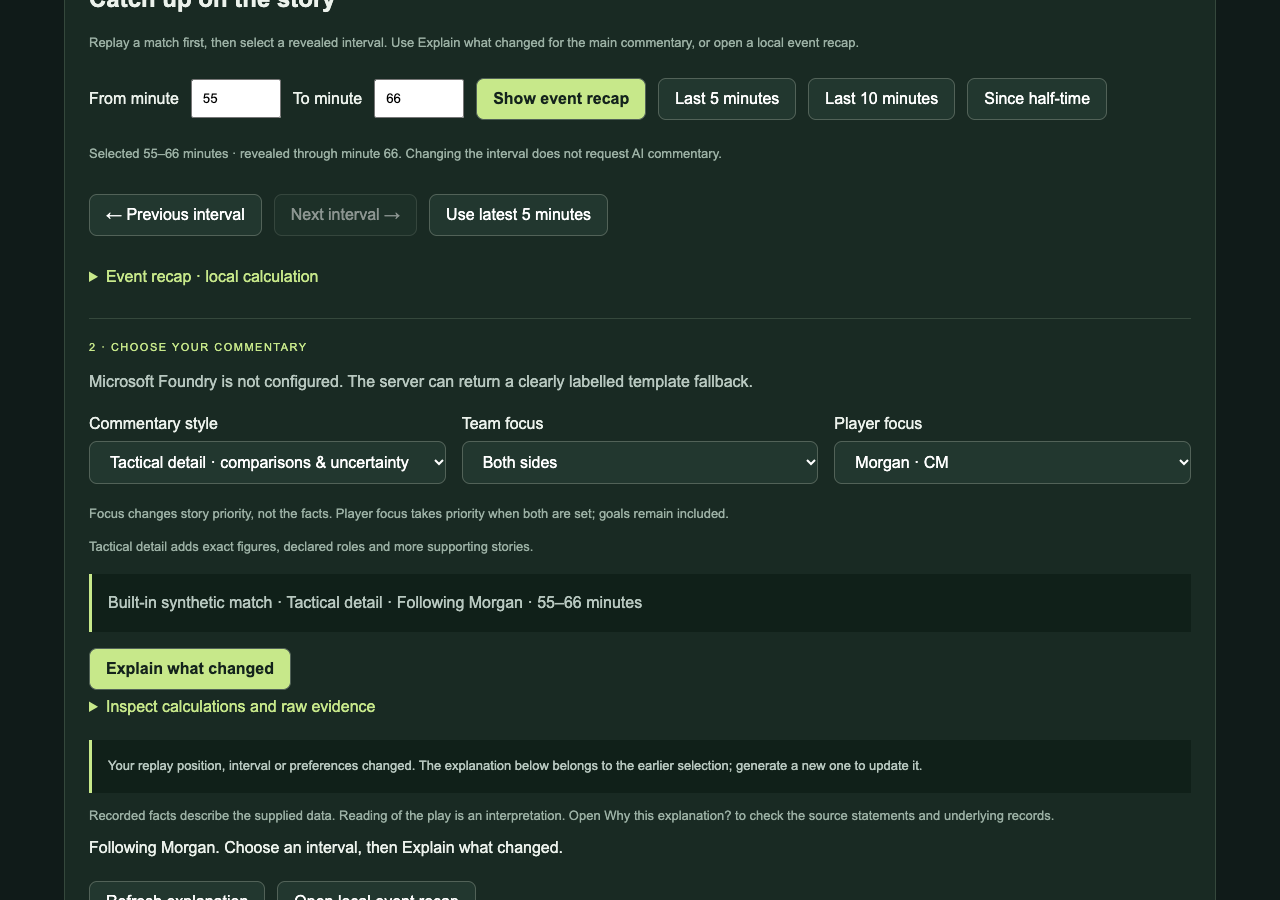
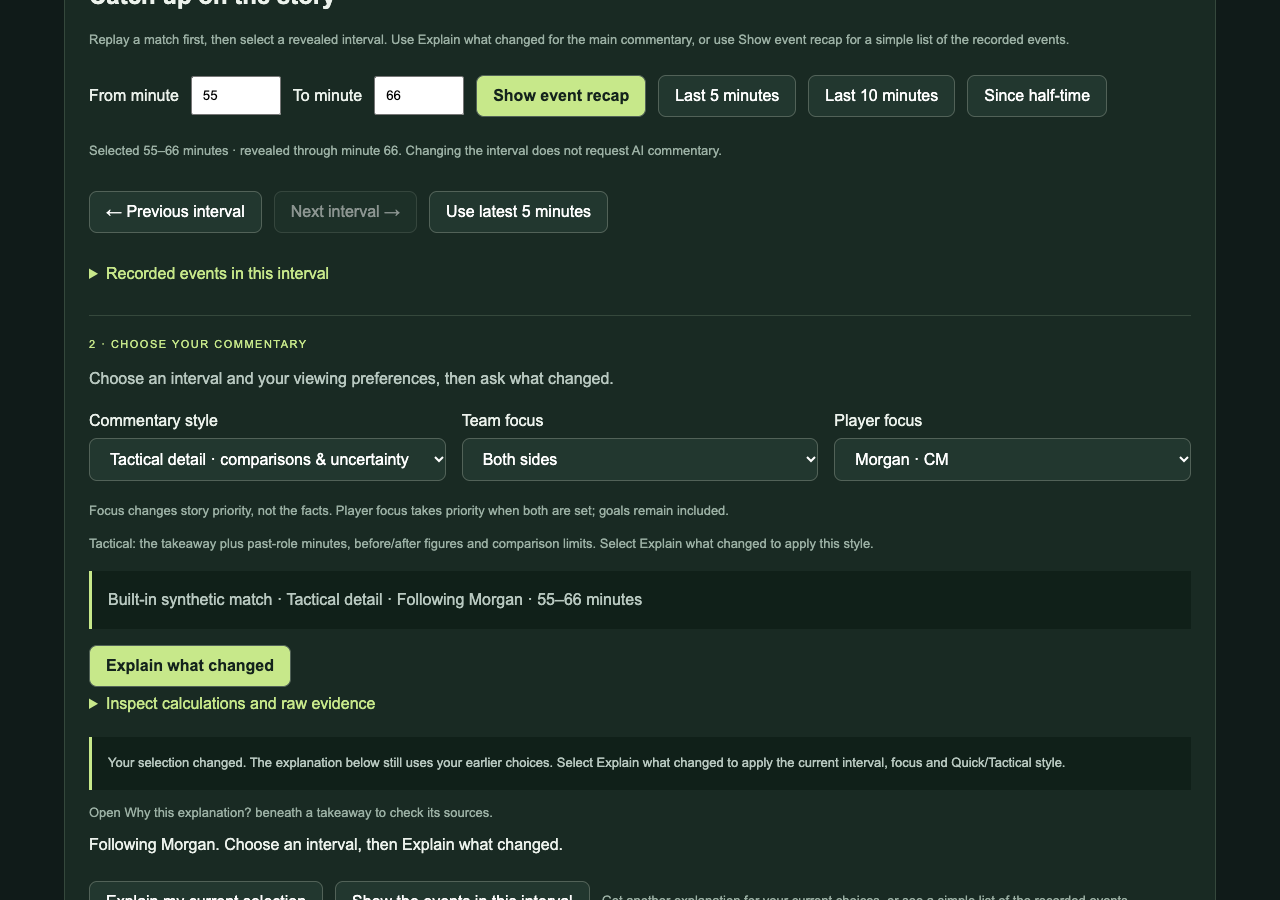
Simplify substitution takeaways and repair reported usability issues

diff --git a/app.js b/app.js
@@ -125,7 +125,7 @@ $('catchGenerate').onclick=()=>makeCatchup();
 // Server-side AI adapter; the server regenerates evidence from the seed, not browser claims.
 const aiPanel=document.createElement('section');aiPanel.className='card bottom';aiPanel.innerHTML='<div class="label">Commentary connection</div><p id="aiStatus">Checking server connection…</p><label for="analysisMode">Explanation approach</label> <select id="analysisMode"><option value="investigate">Investigate the evidence</option><option value="rank">Select supporting stories</option></select><label for="viewerMode">Commentary style</label> <select id="viewerMode"><option value="quick">Quick catch-up · plain English</option><option value="tactical">Tactical detail · comparisons &amp; uncertainty</option></select><label for="viewerFocus" style="margin-left:12px">Team focus</label> <select id="viewerFocus"><option value="neutral">Both sides</option><option value="northbridge">Northbridge</option><option value="southport">Southport</option></select><label for="playerFocus">Player focus</label> <select id="playerFocus"><option value="">No individual player</option></select><p class="muted">Focus changes story priority, not the facts. Player focus takes priority when both are set; goals remain included.</p><p id="viewerModeHelp" class="muted">A short explanation of the main changes, with minimal jargon.</p><button id="aiCatchup">Explain what changed</button><button id="showComparisons">Compare before &amp; after</button><button id="inspectPacket">Inspect evidence packet</button><div id="aiResult" aria-live="polite"></div>';catchup.after(aiPanel);
 fetch('/api/status').then(r=>{if(!r.ok)throw Error();return r.json()}).then(s=>{$('aiStatus').textContent=s.configured?'Ready. Choose your interval and preferences, then explain what changed.':'Microsoft Foundry is not configured. The server can return a clearly labelled template fallback.'}).catch(()=>{$('aiStatus').textContent='Online commentary is temporarily unavailable. Replay and the local event recap still work.'});
-async function requestCommentary(inspect){const host=$('aiResult');host.replaceChildren();if($('scenario').value!=='full'){host.textContent='This connection currently supports full synthetic matches only.';return}if($('catchFrom').value===''||$('catchTo').value===''){host.textContent='Enter both interval minutes.';return}const snapshot={...(fullReplay.package_id?{package_id:fullReplay.package_id}:{}),analysis_mode:$('analysisMode').value,viewer_mode:$('viewerMode').value,viewer_focus:$('viewerFocus').value,player_focus:$('playerFocus').value||null,seed:fullReplay.seed,index,from:Number($('catchFrom').value)*60,to:Number($('catchTo').value)*60};$('showComparisons').disabled=$('aiCatchup').disabled=$('inspectPacket').disabled=true;host.textContent=inspect?'Preparing evidence…':'Requesting commentary…';const started=performance.now();try{const response=await fetch(inspect?'/api/evidence':'/api/commentary',{method:'POST',headers:{'Content-Type':'application/json'},body:JSON.stringify(snapshot),signal:AbortSignal.timeout(30000)});if(!response.ok){const failure=await response.json();throw Error(failure.error||'Backend request unavailable.');}const data=await response.json();host.replaceChildren();const badge=document.createElement('p');badge.className='muted';badge.textContent=`${snapshot.viewer_mode==='quick'?'Quick catch-up':'Tactical detail'} · ${snapshot.viewer_focus==='neutral'?'Both sides':snapshot.viewer_focus==='northbridge'?displayTeam('northbridge'):displayTeam('southport')} focus ${snapshot.player_focus?' · Following '+snapshot.player_focus:''} · Requested interval ${snapshot.from/60}′–${snapshot.to/60}′ · ${fullReplay.package_id?'uploaded match':'seed '+snapshot.seed} · replay event ${snapshot.index} · ${((performance.now()-started)/1000).toFixed(1)}s`;host.append(badge);if(inspect){if(window.renderSequenceStory)window.renderSequenceStory(host,data);if(window.renderCalculatedComparisons)window.renderCalculatedComparisons(host,data);}if(inspect==='comparisons')return;if(inspect){const pre=document.createElement('pre');pre.style.cssText='white-space:pre-wrap;max-height:400px;overflow:auto;font-size:12px';pre.textContent=JSON.stringify(data,null,2);host.append(pre);return}const heading=document.createElement('h3');heading.textContent=data.headline;const note=document.createElement('p');note.className='muted';note.textContent=`${data.mode==='foundry'?(data.composition==='investigated-stories'?'AI evidence investigation · evidence-based wording':data.composition==='selected-stories'?'AI-selected stories · evidence-based wording':'AI-generated'):'Template fallback — not AI-generated'} · ${data.reason}${data.delivery==='cached'?' Reused an existing explanation; no new model request.':''}`;host.append(heading,note);if(window.renderInvestigatorTrace)window.renderInvestigatorTrace(host,data);if(data.failure_code){const diagnostic=document.createElement('details'),title=document.createElement('summary');title.textContent='Connection details';const text=document.createElement('p');text.textContent='Selection status: '+data.failure_code;diagnostic.append(title,text);host.append(diagnostic)}for(const p of data.paragraphs){const para=document.createElement('p');if(p.parts){if(p.parts.fact){const factLabel=document.createElement('strong');factLabel.textContent='Recorded facts · ';para.append(factLabel,document.createTextNode(p.parts.fact));}for(const [key,label]of [['reading','Reading of the play'],['alternative','Limit or alternative']])if(p.parts[key]){const line=document.createElement('span');line.style.display='block';line.className='muted';line.textContent=label+' · '+p.parts[key];para.append(line)}}else para.textContent=p.text;const refs=document.createElement('details');refs.className='muted';const summary=document.createElement('summary');summary.textContent=`Why this explanation? (${p.evidence_ids.length} source statements${p.structured_claims?.length?' · '+p.structured_claims.length+' checked '+(p.structured_claims.length===1?'claim':'claims'):''})`;refs.append(summary);for(const id of p.evidence_ids){const f=data.evidence.facts.find(f=>f.id===id);if(window.renderFactEvidence){window.renderFactEvidence(refs,f,data.evidence);continue}const line=document.createElement('p');line.textContent=`${id}: ${f?.text||''} Sources: ${[...(f?.event_ids||[]),...(f?.annotation_ids||[]),...(f?.history_ids||[])].join(', ')||''}`;refs.append(line)}if(p.structured_claims?.length){const checks=document.createElement('details'),checksTitle=document.createElement('summary'),checksData=document.createElement('pre');checksTitle.textContent='Checked claim records';checksData.style.cssText='white-space:pre-wrap;max-height:300px;overflow:auto';checksData.textContent=JSON.stringify(p.structured_claims,null,2);checks.append(checksTitle,checksData);refs.append(checks)}if(p.scope_label){const scope=document.createElement('p');scope.className='muted';scope.textContent=p.scope_label;host.append(scope)}host.append(para,refs)}if(data.watch_next){const watch=document.createElement('div');watch.className='answer';const title=document.createElement('strong');title.textContent=data.watch_label||'What to watch next';const text=document.createElement('p');text.textContent=data.watch_next;watch.append(title,text);host.append(watch)}const analysis=document.createElement('details');const analysisTitle=document.createElement('summary');analysisTitle.textContent='Explore the play behind this explanation';analysis.append(analysisTitle);if(window.renderInvestigation)window.renderInvestigation(analysis,data.evidence);if(window.renderSequenceStory)window.renderSequenceStory(analysis,data.evidence);if(window.renderCalculatedComparisons)window.renderCalculatedComparisons(analysis,data.evidence);host.append(analysis);const coverage=document.createElement('details'),coverageTitle=document.createElement('summary');coverageTitle.textContent='Coverage & limitations';coverage.append(coverageTitle);const limits=document.createElement('p');limits.className='muted';limits.textContent=data.limitations.join(' ');coverage.append(limits);host.append(coverage);decorate(host)}catch(e){host.textContent=e.message==='Failed to fetch'?'The commentary server could not be reached. Try again or use Show event recap.':e.message}finally{$('showComparisons').disabled=$('aiCatchup').disabled=$('inspectPacket').disabled=false}}
+async function requestCommentary(inspect){const host=$('aiResult');host.replaceChildren();if($('scenario').value!=='full'){host.textContent='This connection currently supports full synthetic matches only.';return}if($('catchFrom').value===''||$('catchTo').value===''){host.textContent='Enter both interval minutes.';return}const snapshot={...(fullReplay.package_id?{package_id:fullReplay.package_id}:{}),analysis_mode:$('analysisMode').value,viewer_mode:$('viewerMode').value,viewer_focus:$('viewerFocus').value,player_focus:$('playerFocus').value||null,seed:fullReplay.seed,index,from:Number($('catchFrom').value)*60,to:Number($('catchTo').value)*60};$('showComparisons').disabled=$('aiCatchup').disabled=$('inspectPacket').disabled=true;host.textContent=inspect?'Preparing evidence…':'Requesting commentary…';const started=performance.now();try{const response=await fetch(inspect?'/api/evidence':'/api/commentary',{method:'POST',headers:{'Content-Type':'application/json'},body:JSON.stringify(snapshot),signal:AbortSignal.timeout(30000)});if(!response.ok){const failure=await response.json();throw Error(failure.error||'Backend request unavailable.');}const data=await response.json();host.replaceChildren();const badge=document.createElement('p');badge.className='muted';badge.textContent=`${snapshot.viewer_mode==='quick'?'Quick catch-up':'Tactical detail'} · ${snapshot.viewer_focus==='neutral'?'Both sides':snapshot.viewer_focus==='northbridge'?displayTeam('northbridge'):displayTeam('southport')} focus ${snapshot.player_focus?' · Following '+snapshot.player_focus:''} · Requested interval ${snapshot.from/60}′–${snapshot.to/60}′`;host.append(badge);if(inspect){if(window.renderSequenceStory)window.renderSequenceStory(host,data);if(window.renderCalculatedComparisons)window.renderCalculatedComparisons(host,data);}if(inspect==='comparisons')return;if(inspect){const pre=document.createElement('pre');pre.style.cssText='white-space:pre-wrap;max-height:400px;overflow:auto;font-size:12px';pre.textContent=JSON.stringify(data,null,2);host.append(pre);return}const heading=document.createElement('h3');heading.textContent=data.headline;const note=document.createElement('p');note.className='muted';note.textContent=(data.mode==='foundry'?'AI-assisted explanation':'Local explanation')+(data.delivery==='cached'?' · saved result':'');const method=document.createElement('details'),methodTitle=document.createElement('summary');methodTitle.textContent='How this was prepared';method.append(methodTitle,note);const methodReason=document.createElement('p');methodReason.textContent=data.reason;method.append(methodReason);host.append(heading,method);if(window.renderInvestigatorTrace)window.renderInvestigatorTrace(host,data);if(data.failure_code){const diagnostic=document.createElement('details'),title=document.createElement('summary');title.textContent='Connection details';const text=document.createElement('p');text.textContent='Selection status: '+data.failure_code;diagnostic.append(title,text);host.append(diagnostic)}for(const p of data.paragraphs){const para=document.createElement('p');if(p.parts){if(p.parts.fact){const factLabel=document.createElement('strong');factLabel.textContent='Recorded facts · ';para.append(factLabel,document.createTextNode(p.parts.fact));}for(const [key,label]of [['reading','Reading of the play'],['alternative','What we cannot conclude']])if(p.parts[key]){const line=document.createElement('span');line.style.display='block';line.className='muted';line.textContent=label+' · '+p.parts[key];para.append(line)}}else para.textContent=p.text;const refs=document.createElement('details');refs.className='muted';const summary=document.createElement('summary');summary.textContent=`Why this explanation? (${p.evidence_ids.length} source statements${p.structured_claims?.length?' · '+p.structured_claims.length+' checked '+(p.structured_claims.length===1?'claim':'claims'):''})`;refs.append(summary);for(const id of p.evidence_ids){const f=data.evidence.facts.find(f=>f.id===id);if(window.renderFactEvidence){window.renderFactEvidence(refs,f,data.evidence);continue}const line=document.createElement('p');line.textContent=`${id}: ${f?.text||''} Sources: ${[...(f?.event_ids||[]),...(f?.annotation_ids||[]),...(f?.history_ids||[])].join(', ')||''}`;refs.append(line)}if(p.structured_claims?.length){const checks=document.createElement('details'),checksTitle=document.createElement('summary'),checksData=document.createElement('pre');checksTitle.textContent='Checked claim records';checksData.style.cssText='white-space:pre-wrap;max-height:300px;overflow:auto';checksData.textContent=JSON.stringify(p.structured_claims,null,2);checks.append(checksTitle,checksData);refs.append(checks)}if(p.scope_label){const scope=document.createElement('p');scope.className='muted';scope.textContent=p.scope_label;refs.append(scope)}host.append(para,refs)}if(data.watch_next){const watch=document.createElement('div');watch.className='answer';const title=document.createElement('strong');title.textContent=data.watch_label||'What to watch next';const text=document.createElement('p');text.textContent=data.watch_next;watch.append(title,text);host.append(watch)}const analysis=document.createElement('details');const analysisTitle=document.createElement('summary');analysisTitle.textContent='Explore the play behind this explanation';analysis.append(analysisTitle);if(window.renderInvestigation)window.renderInvestigation(analysis,data.evidence);if(window.renderSequenceStory)window.renderSequenceStory(analysis,data.evidence);if(window.renderCalculatedComparisons)window.renderCalculatedComparisons(analysis,data.evidence);host.append(analysis);const coverage=document.createElement('details'),coverageTitle=document.createElement('summary');coverageTitle.textContent='Coverage & limitations';coverage.append(coverageTitle);const limits=document.createElement('p');limits.className='muted';limits.textContent=data.limitations.join(' ');coverage.append(limits);host.append(coverage);decorate(host)}catch(e){host.textContent=e.message==='Failed to fetch'?'The commentary server could not be reached. Try again or use Show event recap.':e.message}finally{$('showComparisons').disabled=$('aiCatchup').disabled=$('inspectPacket').disabled=false}}
 $('aiCatchup').onclick=()=>requestCommentary(false);$('inspectPacket').onclick=()=>requestCommentary(true);$('showComparisons').onclick=()=>requestCommentary('comparisons');
 
 $('viewerMode').onchange=()=>{$('viewerModeHelp').textContent=$('viewerMode').value==='quick'?'A short explanation of the main changes, with minimal jargon.':'Exact figures, declared roles and more supporting stories, with the same underlying evidence.';$('aiResult').textContent='Commentary style changed. Generate a new explanation for the selected interval.'};

diff --git a/product-ui.js b/product-ui.js
@@ -4,8 +4,8 @@
  grid.append(statPanel);statPanel.style.marginTop='0';
  const workspace=document.createElement('section');workspace.id='commentaryWorkspace';workspace.className='card bottom';workspace.setAttribute('aria-label','Interval commentary');grid.after(workspace);workspace.append(catchup,aiPanel);catchup.classList.remove('card','bottom');aiPanel.classList.remove('card','bottom');
  catchup.querySelector('.label').textContent='1 · Choose the minutes you missed';catchup.querySelector('h2').textContent='Catch up on the story';
- catchup.querySelector('p').textContent='Replay a match first, then select a revealed interval. Use Explain what changed for the main commentary, or open a local event recap.';
- const recapDetails=document.createElement('details'),recapSummary=document.createElement('summary');recapSummary.textContent='Event recap · local calculation';recapDetails.append(recapSummary,$('catchReport'));catchup.append(recapDetails);
+ catchup.querySelector('p').textContent='Replay a match first, then select a revealed interval. Use Explain what changed for the main commentary, or use Show event recap for a simple list of the recorded events.';
+ const recapDetails=document.createElement('details'),recapSummary=document.createElement('summary');recapSummary.textContent='Recorded events in this interval';recapDetails.append(recapSummary,$('catchReport'));catchup.append(recapDetails);
  $('catchGenerate').textContent='Show event recap';$('catchGenerate').onclick=()=>{makeCatchup();recapDetails.open=true;};
  aiPanel.querySelector('.label').textContent='2 · Choose your commentary';$('aiCatchup').classList.add('primary');
  const demo=document.createElement('button');demo.id='guidedExample';demo.textContent='Try the substitution example';demo.onclick=()=>{pause();fullReplay=FullMatch.simulate(7);$('seed').value='7';$('scenario').value='full';reset();index=fullReplay.events.findIndex(e=>e.t>=3960);$('catchFrom').value='55';$('catchTo').value='66';$('viewerMode').value='tactical';$('playerFocus').value='Ellis';$('viewerFocus').value='neutral';render();makeCatchup();$('aiResult').textContent='Example ready: Ellis has come on in a different role. Select Explain what changed to explore the supplied role history and the attacks in this spell.';workspace.scrollIntoView({block:'start',behavior:'smooth'})};
@@ -15,10 +15,10 @@
  const key=()=>JSON.stringify([fullReplay.package_id||fullReplay.seed,$('scenario').value,index,$('catchFrom').value,$('catchTo').value,$('viewerMode').value,$('analysisMode').value,$('viewerFocus').value,$('playerFocus').value]);
  const originalRequest=requestCommentary;
  requestCommentary=async function(inspect){pause();const current=++requestVersion,started=key();busy=true;notice.hidden=true;try{await originalRequest(inspect);if(current!==requestVersion||started!==key()){$('aiResult').textContent='The selection changed while this response was loading. Select Explain what changed for your current interval.';return}$('aiResult').dataset.selectionKey=started;}finally{busy=false;updateState()}};
- function updateState(){$('viewerModeHelp').textContent=$('viewerMode').value==='quick'?'Quick catch-up gives the main story in plain English.':'Tactical detail adds exact figures, declared roles and more supporting stories.';const full=$('scenario').value==='full';legacy.hidden=full;workspace.hidden=showTeams;demo.hidden=intro.hidden=showTeams||!!fullReplay.package_id;const now=active().events[index].t,from=Number($('catchFrom').value),to=Number($('catchTo').value),valid=$('catchFrom').value!==''&&$('catchTo').value!==''&&Number.isFinite(from)&&Number.isFinite(to)&&from>=0&&to>from&&to*60<=now&&from*60>=active().events[0].t;
+ function updateState(){$('viewerModeHelp').textContent=$('viewerMode').value==='quick'?'Quick: a short takeaway in plain English. Select Explain what changed to apply this style.':'Tactical: the takeaway plus past-role minutes, before/after figures and comparison limits. Select Explain what changed to apply this style.';const full=$('scenario').value==='full';legacy.hidden=full;workspace.hidden=showTeams;demo.hidden=intro.hidden=showTeams||!!fullReplay.package_id;const now=active().events[index].t,from=Number($('catchFrom').value),to=Number($('catchTo').value),valid=$('catchFrom').value!==''&&$('catchTo').value!==''&&Number.isFinite(from)&&Number.isFinite(to)&&from>=0&&to>from&&to*60<=now&&from*60>=active().events[0].t;
  $('catchFrom').max=$('catchTo').max=String(Math.floor(now/60));$('aiCatchup').disabled=busy||!full||!valid||packageExpired();
  const shown=$('aiResult').dataset.selectionKey;
- if(!full){notice.hidden=false;notice.textContent='The phase scenarios are diagnostic fixtures. Select Full synthetic match in demo settings to use interval commentary.'}else if(!valid&&!busy){notice.hidden=false;notice.textContent=now<60?'Start the replay or try the substitution example to reveal an interval.':`Choose an end minute after the start, no later than ${Math.floor(now/60)}. Future events stay hidden.`}else if(shown&&shown!==key()&&$('aiResult').textContent.trim()){notice.hidden=false;notice.textContent='Your replay position, interval or preferences changed. The explanation below belongs to the earlier selection; generate a new one to update it.'}else notice.hidden=true;
+ if(!full){notice.hidden=false;notice.textContent='The phase scenarios are diagnostic fixtures. Select Full synthetic match in demo settings to use interval commentary.'}else if(!valid&&!busy){notice.hidden=false;notice.textContent=now<60?'Start the replay or try the substitution example to reveal an interval.':`Choose an end minute after the start, no later than ${Math.floor(now/60)}. Future events stay hidden.`}else if(shown&&shown!==key()&&$('aiResult').textContent.trim()){notice.hidden=false;notice.textContent='Your selection changed. The explanation below still uses your earlier choices. Select Explain what changed to apply the current interval, focus and Quick/Tactical style.'}else notice.hidden=true;
  if(lastClock!==String(now)){lastClock=String(now);if($('catchReport').textContent==='Select an interval within the revealed match time.')recapDetails.open=false;}
  }
  for(const id of ['catchFrom','catchTo','analysisMode','viewerMode','viewerFocus','playerFocus'])$(id).addEventListener('input',updateState);

diff --git a/fan-ui.js b/fan-ui.js
@@ -12,10 +12,11 @@
  function interval(from,to){$('catchFrom').value=from;$('catchTo').value=to;for(const id of ['catchFrom','catchTo'])$(id).dispatchEvent(new Event('input',{bubbles:true}));}
  function button(id,label,fn){const b=document.createElement('button');b.id=id;b.textContent=label;b.onclick=fn;navigation.append(b);return b;}
  const previous=button('previousInterval','← Previous interval',()=>move(-1)),next=button('nextInterval','Next interval →',()=>move(1)),latest=button('revealedInterval','Use latest 5 minutes',()=>{const end=Math.floor(active().events[index].t/60);interval(Math.max(Math.ceil(active().events[0].t/60),end-5),end)});
+ const endHere=button('endAtReplay','End at current replay minute',()=>{const s=state();interval(s.from,s.end)});
  const jump=document.createElement('a');jump.href='#commentaryWorkspace';jump.className='skip-link';jump.textContent='Skip to interval commentary';document.body.prepend(jump);workspace.tabIndex=-1;
  const recovery=document.createElement('div');recovery.className='toolbar';recovery.id='commentaryRecovery';recovery.hidden=true;
  const retry=document.createElement('button');retry.textContent='Try commentary again';retry.onclick=()=>requestCommentary(false);
- const local=document.createElement('button');local.textContent='Open local event recap';local.onclick=()=>{$('catchGenerate').click();$('catchReport').scrollIntoView({block:'center'});};recovery.append(retry,local);result.after(recovery);
+ const local=document.createElement('button');local.textContent='Show the events in this interval';local.onclick=()=>{$('catchGenerate').click();$('catchReport').scrollIntoView({block:'center'});};recovery.append(retry,local);const recoveryHelp=document.createElement('p');recoveryHelp.className='muted';recoveryHelp.textContent='Get another explanation for your current choices, or see a simple list of the recorded events.';recovery.append(recoveryHelp);result.after(recovery);
  let pending=false;
  const recapKey=()=>JSON.stringify([fullReplay.package_id||fullReplay.seed,$('scenario').value,index,$('catchFrom').value,$('catchTo').value]);
  const priorRecap=makeCatchup;makeCatchup=function(){priorRecap();$('catchReport').dataset.selectionKey=recapKey();};
@@ -25,11 +26,11 @@
   else if(!Number.isInteger(from)||!Number.isInteger(to))error='Use whole minutes for the start and end.';
   else if(from<earliest)error=`This replay starts at minute ${earliest}. Choose that minute or later.`;
   else if(to<=from)error='The end minute must be after the start minute.';
-  else if(to>end)error=`Only minutes through ${end} are revealed. Advance the replay or use the latest 5 minutes.`;
+  else if(to>end)error=`The replay is at minute ${end}; minute ${to} has not happened yet. Choose an end minute of ${end} or earlier, or select End at current replay minute below.`;
   return{from,to,earliest,end,error,full:$('scenario').value==='full'};
  }
  function move(direction){const s=state();if(s.error)return;const width=s.to-s.from,from=s.from+direction*width,to=s.to+direction*width;if(from>=s.earliest&&to<=s.end)interval(from,to);}
- function sync(){const s=state(),valid=!s.error,expired=packageExpired();
+ function sync(){const s=state(),valid=!s.error,expired=packageExpired();endHere.hidden=!(s.to>s.end&&Number.isInteger(s.from)&&s.from>=s.earliest&&s.from<s.end);endHere.disabled=pending;write(endHere,`End at current replay minute (${s.end})`);
   write(status,s.error||`Selected ${s.from}–${s.to} minutes · revealed through minute ${s.end}. Changing the interval does not request AI commentary.`);
   const report=$('catchReport');if(report.dataset.selectionKey&&report.dataset.selectionKey!==recapKey()){report.textContent='The match, replay position or interval changed. Select Show event recap to update this summary.';delete report.dataset.selectionKey;}
   for(const id of ['catchFrom','catchTo'])$(id).setAttribute('aria-invalid',String(!valid));
@@ -43,7 +44,7 @@
   $('progress').setAttribute('aria-valuetext',`Replay at ${Math.floor(active().events[index].t/60)} minutes ${active().events[index].t%60} seconds`);
   $('guidedExample').hidden=$('guidedExampleHelp').hidden=showTeams||!!fullReplay.package_id;
  }
- const priorRequest=requestCommentary;requestCommentary=async function(inspect){sync();if(pending||$('aiCatchup').disabled)return;pending=true;recovery.hidden=true;sync();try{await priorRequest(inspect);}finally{pending=false;sync();recovery.hidden=!result.textContent.trim();retry.textContent=result.querySelector('h3')?'Refresh explanation':'Try commentary again';}};
+ const priorRequest=requestCommentary;requestCommentary=async function(inspect){sync();if(pending||$('aiCatchup').disabled)return;pending=true;recovery.hidden=true;sync();try{await priorRequest(inspect);}finally{pending=false;sync();recovery.hidden=!result.textContent.trim();retry.textContent=result.querySelector('h3')?'Explain my current selection':'Try commentary again';}};
  const priorRender=render;render=function(){priorRender();sync()};
  const priorReset=reset;reset=function(){priorReset();sync();recovery.hidden=true};$('reset').onclick=reset;
  for(const id of ['catchFrom','catchTo','analysisMode','viewerMode','viewerFocus','playerFocus'])$(id).addEventListener('input',sync);

diff --git a/package-ui.js b/package-ui.js
@@ -9,7 +9,7 @@ async function loadPackage(data){const version=++packageLoadVersion,previousRepl
 $('packageFile').onchange=async()=>{const file=$('packageFile').files[0];if(!file)return;try{if(file.size>2000000)throw Error('File exceeds 2 MB.');let data;try{data=JSON.parse(await file.text())}catch{throw Error('Invalid JSON. Download the example to see the required structure. Your current match is unchanged.')}await loadPackage(data)}catch(e){$('packageStatus').textContent='Not loaded: '+e.message}};
 $('loadExample').onclick=async()=>{try{const r=await fetch('/api/package-example');if(!r.ok)throw Error('Start the backend on port 8767 to load packages.');await loadPackage(await r.json())}catch(e){$('packageStatus').textContent=e.message}};
 $('exportPackage').onclick=()=>{const data=fullReplay.package_version?((({package_id,mode,...rest})=>rest)(fullReplay)):MatchPackage.fromReplay(fullReplay);const blob=new Blob([JSON.stringify(data,null,2)],{type:'application/json'}),url=URL.createObjectURL(blob),a=document.createElement('a');a.href=url;a.download='touchline-match-package.json';a.click();setTimeout(()=>URL.revokeObjectURL(url),1000)};
-function drawIncidents(){incidentPanel.hidden=showTeams||$('scenario').value!=='full';const host=$('incidentList');host.replaceChildren();const annotations=MatchPackage.visibleAnnotations(fullReplay,fullReplay.events[index].t);if(!annotations.length){host.textContent='No incident annotations available at this replay time. This does not prove that no incident occurred.';return;}for(const a of annotations){const box=document.createElement('article');box.append(teamText('h3',a.kind.replaceAll('_',' ')),teamText('p',`${a.status} · happened ${Math.floor(a.happened_at/60)}′ · available ${Math.floor(a.available_at/60)}′`),teamText('p',a.description),teamText('p',`Source: ${a.source}. Synthetic annotation; no automatic referee ruling.`,'muted'));for(const ref of a.rule_refs||[]){const link=document.createElement('a');link.href=ref.url;link.target='_blank';link.rel='noopener noreferrer';link.style.color='#c7e88a';link.textContent=ref.title;box.append(link);const curated=OFFICIAL_RULES[ref.catalogue_id];if(curated){const quote=document.createElement('blockquote');quote.textContent='“'+curated.quote+'”';box.append(quote,teamText('p',curated.explanation),teamText('p',curated.version,'muted'))}else box.append(teamText('p',`${ref.version}. Official-domain link; text and applicability are not independently verified. No uploaded quotation is treated as verified.`,'muted'))}host.append(box)}}
+function drawIncidents(){incidentPanel.hidden=showTeams||$('scenario').value!=='full';const host=$('incidentList');host.replaceChildren();const annotations=MatchPackage.visibleAnnotations(fullReplay,fullReplay.events[index].t);if(!annotations.length){host.textContent='No additional incident reports at this replay time.';return;}for(const a of annotations){const box=document.createElement('article');box.append(teamText('h3',a.kind.replaceAll('_',' ')),teamText('p',`${a.status} · happened ${Math.floor(a.happened_at/60)}′ · available ${Math.floor(a.available_at/60)}′`),teamText('p',a.description),teamText('p',`Source: ${a.source}. Synthetic annotation; no automatic referee ruling.`,'muted'));for(const ref of a.rule_refs||[]){const link=document.createElement('a');link.href=ref.url;link.target='_blank';link.rel='noopener noreferrer';link.style.color='#c7e88a';link.textContent=ref.title;box.append(link);const curated=OFFICIAL_RULES[ref.catalogue_id];if(curated){const quote=document.createElement('blockquote');quote.textContent='“'+curated.quote+'”';box.append(quote,teamText('p',curated.explanation),teamText('p',curated.version,'muted'))}else box.append(teamText('p',`${ref.version}. Official-domain link; text and applicability are not independently verified. No uploaded quotation is treated as verified.`,'muted'))}host.append(box)}}
 $('reloadPackage').onclick=async()=>{try{const {package_id,mode,...data}=fullReplay;await loadPackage(data)}catch(e){$('packageStatus').textContent=e.message}};
 $('clearPackage').onclick=async()=>{packageLoadVersion++;const id=fullReplay.package_id;if(id){try{const r=await fetch('/api/packages/'+encodeURIComponent(id),{method:'DELETE'});if(!r.ok)throw Error('Could not remove server copy. Try again.')}catch(e){$('packageStatus').textContent=e.message;return}}pause();fullReplay=FullMatch.simulate(Number($('seed').value)||7);packageExpiresAt=0;reset();showPackageDetails();};
 document.addEventListener('visibilitychange',async()=>{if(document.hidden||!fullReplay.package_id)return;const id=fullReplay.package_id;try{const r=await fetch('/api/packages/'+encodeURIComponent(id));if(r.status===410&&fullReplay.package_id===id){packageExpiresAt=0;showPackageDetails();$('aiCatchup').disabled=true;}}catch{/* Local replay remains available during a network outage. */}});

diff --git a/evidence-ui.js b/evidence-ui.js
@@ -16,14 +16,15 @@
   const limited=output.evidence_status==='insufficient_evidence',local=output.mode==='template';if(!limited&&!local)return;
   const box=el('section');box.className='answer evidence-notice';box.setAttribute('aria-label',limited?'Limited evidence':'Local explanation');box.append(el('strong',limited?'Evidence is limited':'Local explanation'));
   const messages=[];
-  if(limited){messages.push('The inspected evidence does not establish a fuller explanation. The recorded events below are still available.');
+  if(limited){
    for(const step of output.investigation?.steps||[]){if(step.status==='rejected')continue;
-    if(step.tool==='compare_change'&&['insufficient_window','waiting'].includes(step.status))messages.push('There is not enough recorded play for a full before-and-after comparison. A later replay position may help if more play after the change is needed.');
+    if(step.tool==='compare_change'&&['insufficient_window','waiting'].includes(step.status))messages.push('There is not enough recorded play for a full before-and-after comparison. Use an interval that includes more play after the change, once it has been revealed.');
     if(step.tool==='role_history'&&step.status==='missing')messages.push('Usable prior role history is missing. This does not mean the player has no experience.');
     if(step.tool==='analyse_possession'&&step.status==='unavailable')messages.push('Possession detail is unavailable, so passing totals alone cannot explain how attacks developed.');
     if(step.tool==='analyse_possession'&&step.status==='no_complete_sequences')messages.push('No complete possession sequences were available for this query. This does not establish that no play occurred.');
     if(step.tool==='inspect_chances'&&['unavailable','partial','mixed_sources'].includes(step.status))messages.push('Comparable chance values are unavailable or incomplete; missing values are not zero.');
    }
+   if(!messages.length)messages.push('The available evidence cannot support a fuller explanation. Recorded events are shown below.');
   }else messages.push('Online analysis was unavailable or stopped at its limit. This explanation uses the recorded evidence and local rules. You can still inspect sources or open the event recap.');
   for(const text of new Set(messages))box.append(el('p',text));host.append(box);
  };

diff --git a/usability-ui.js b/usability-ui.js
@@ -8,6 +8,6 @@
  // Reuse the existing English definitions instead of opening Chinese definitions by default.
  GLOSSARY_LANGUAGES.en={label:'English',terms:Object.fromEntries(Object.keys(definitions).map(k=>[k,k])),definitions:{...definitions},name_note:'Fictional player or club in this prototype.'};
  const english=document.createElement('option');english.value='en';english.textContent='English';$('language').prepend(english);$('language').value='en';$('language').dispatchEvent(new Event('change',{bubbles:true}));
- const sourceHelp=document.createElement('p');sourceHelp.className='muted';sourceHelp.id='evidenceHelp';sourceHelp.textContent='Recorded facts describe the supplied data. Reading of the play is an interpretation. Open Why this explanation? to check the source statements and underlying records.';aiPanel.insertBefore(sourceHelp,$('aiResult'));
+ const sourceHelp=document.createElement('p');sourceHelp.className='muted';sourceHelp.id='evidenceHelp';sourceHelp.textContent='Open Why this explanation? beneath a takeaway to check its sources.';aiPanel.insertBefore(sourceHelp,$('aiResult'));
  const css=document.createElement('style');css.textContent='.source-fact{border-top:1px solid #35483c;padding:10px 0}.source-fact>p{font-size:14px}.evidence-notice{margin:16px 0}.evidence-notice p{margin:8px 0}.source-fact details{overflow-wrap:anywhere}#evidenceHelp{font-size:13px}';document.head.append(css);
 })();

diff --git a/docs/USER_GUIDE.md b/docs/USER_GUIDE.md
@@ -1,12 +1,12 @@
 # How to use Touchline
 
-This guide describes the 0.5 fan-facing prototype. [Open Touchline](https://touchline-fan-20261025-b4bpgfdxbyarhyh5.germanywestcentral-01.azurewebsites.net/) or [watch the 1:48 demonstration](https://youtu.be/9JvQMpAhdpA). Everything in the example match is fictional.
+This guide describes the local review build of the 0.5 fan-facing prototype. The public demo and video below remain the earlier release until Batch 10. [Open Touchline](https://touchline-fan-20261025-b4bpgfdxbyarhyh5.germanywestcentral-01.azurewebsites.net/) or [watch the 1:48 demonstration](https://youtu.be/9JvQMpAhdpA). Everything in the example match is fictional.
 
 ## Start without supplying data
 
 Select **Try the substitution example** near the top of the page. It prepares a complete example: minute 66, catch-up 55–66, Tactical detail and Ellis. Select **Explain what changed**. Expect commentary about his assigned right-wing role, supplied recent experience and recorded match activity. The model may prioritize additional stories differently.
 
-Expand **Inspect supporting evidence** below each story. The facts list links by stable record IDs. Expand **Explore the play behind this explanation** for role context, complete possession sequences and matched comparisons. The history example uses 20 minutes in the inherited role out of 305 total supplied minutes; it is not a real football statistic or player rating.
+Expand **Why this explanation?** below each story. The facts list links by stable record IDs. Expand **Explore the play behind this explanation** for role context, complete possession sequences and matched comparisons. In the Ellis example, the five supplied past match records contain 305 total minutes, including 20 at right wing. These are past minutes, not time in the current match, and do not rate his ability. Quick omits those history figures; Tactical explains them. If the selected interval ends too soon after his entry, the answer says that it cannot yet establish whether the substitution helped. Extend the interval to include more post-entry play once that play has been revealed.
 
 ## Watch or rewind the replay
 
@@ -24,9 +24,9 @@ Under **Match data & demo settings**, Full synthetic match is the main 90-minute
 
 The explanation concerns the selected interval. A role comparison may use its explicitly labelled window around an entry; historical records are filtered by their own availability rule. The separate match-so-far summary concerns the whole revealed replay, not just your interval.
 
-If you change the interval, preferences or replay position, the previous explanation is marked as belonging to the old selection. Request another explanation to update it. A future end minute is blocked; a pending response is discarded if the selection changes.
+If you change the interval, preferences or replay position, the previous explanation is marked as belonging to the old selection. Request another explanation to update it. A future end minute is blocked. **End at current replay minute** keeps your start minute and moves the end back to the replay clock; a pending response is discarded if the selection changes.
 
-**Show event recap** produces a local event summary. It is useful when you want the sequence of recorded events without online selection. Commentary adds selected context when that context is present; it cannot infer arbitrary tactics from sparse events.
+**Explain my current selection** requests another explanation using the currently selected interval, focus and style. **Show the events in this interval** (or **Show event recap**) produces a simple list of recorded events without online analysis. It is useful when you want the sequence of recorded events without online selection. Commentary adds selected context when that context is present; it cannot infer arbitrary tactics from sparse events.
 
 ## Follow a team or player
 
@@ -36,7 +36,7 @@ Team focus changes which supported stories are most relevant. It does not alter 
 
 ## Learn vocabulary across languages
 
-Choose Chinese, Spanish, French, German, Portuguese or Japanese under **Glossary language**. Click a highlighted term or supported player name. The popup gives a curated translation and explanation in that language, with English help where provided. The main interface and commentary remain English. The dictionary is limited; unfamiliar terms are not automatically translated.
+English is the default. You can also choose Chinese, Spanish, French, German, Portuguese or Japanese under **Glossary language**. Click a highlighted term or supported player name. The popup gives a curated translation and explanation in that language, with English help where provided. The main interface and commentary remain English. The dictionary is limited; unfamiliar terms are not automatically translated.
 
 ## Bring your own synthetic match
 

diff --git a/docs/BATCH_9_RESULTS.md b/docs/BATCH_9_RESULTS.md
@@ -1,16 +1,22 @@
-# Batch 9 — Participant results
+# Batch 9 — Reported feedback and repairs
 
-**Awaiting responses. No unfamiliar-participant results are recorded yet.**
+27 October 2026. One written review response was supplied in this conversation, together with a pasted Tactical explanation. The reviewer’s first-time status, device/browser and assistance were not specified. This is reported feedback, not an observed unfamiliar-user session. No task completion rates are inferred.
 
-The user confirmed on 27 October 2026 that they can provide participant responses. The local task sheet and review build have been supplied. This is availability to participate, not evidence that a session took place.
-
-| Item | Current state |
+| Reported observation | Repair |
 |---|---|
-| Participants observed | 0 |
-| First-time status / football familiarity | Unknown |
-| Task completion and assistance | Not measured |
-| Comprehension / source-finding / recovery | Not measured |
-| Participant usefulness judgment | Not received |
-| Participant-driven repairs | Pending observations |
+| Term explanations were useful. | Retained the glossary and language selection. |
+| An end minute of 80 at replay minute 66 was blocked, but recovery was confusing. | The message states that minute 80 has not happened yet. A contextual End at current replay minute action preserves the start minute and changes only the end to 66. Future events remain unavailable. |
+| Substitution text was too long and did not answer whether the team improved. | Pending comparison headlines and opening text now say that it is too soon to judge whether the substitution helped. Quick gives a short takeaway and the reason; Tactical retains supporting history and comparison details. Ready comparisons retain their activity signal and causal limits. |
+| “20 of 305” was unexplained. | Tactical explains that 20 minutes at right wing are part of 305 total minutes in five supplied past match records, and explicitly separates those minutes from the current match. Quick omits these history figures. These records do not establish player ability or a substitution’s effect. |
+| Quick/Tactical differences were apparent only with Ellis selected. | Regression checks cover both no player focus and Ellis at replay minute 66. Mode guidance specifies the detail difference, and changing mode explicitly marks the existing answer as using earlier choices until regenerated. |
+| Refresh explanation and Open local event recap had unclear purposes. | Replaced with Explain my current selection and Show the events in this interval; added a short description of each action. The event recap disclosure now says Recorded events in this interval. |
+| The empty-incident disclaimer felt useless. | Shortened it to No additional incident reports at this replay time. |
+| The pasted answer was visually dense. | Technical preparation reasons and comparison scope sit inside collapsed disclosures. The visible badge keeps mode, focus and interval; underlying records and checked claims remain inspectable. |
 
-Use [the response sheet](BATCH_9_PARTICIPANT_TASKS.md) to record actual answers. Add the tested candidate commit, device/browser, task outcomes, quotations where provided, observed misunderstandings and follow-up fixes. Keep builder findings and automated checks in [the separate review report](BATCH_9.md). Do not fill blank observations from expected behaviour.
+The pasted original explanation is retained in [the review input](batch-9-feedback-original.txt). It is evidence of the earlier output, not an output from the repaired build.
+
+## Validation and limits
+
+Automated narrative checks cover the reported minute-66 interval with and without player focus, past-history denominators, concise Quick output, and retained evidence validation. Browser checks exercise future-interval recovery, mode changes, hidden preparation details, sources, glossary, error recovery, stale responses, expiry and narrow screens. See [the builder record](batch-9-browser-check.json), [Quick screenshot](batch-9-feedback-quick.png) and [Tactical screenshot](batch-9-feedback-tactical.png). The screenshots show the same 55–66 interval with no individual player focus, using the local explanation.
+
+These repairs have not yet received a follow-up human review. The written feedback does not answer whether a first-time reviewer could independently find a claim’s source, distinguish interpretation, or complete each task without help. That participation requirement remains open; the implementation and automated repair checks are complete locally. No representative usability or comprehension claim is made.

diff --git a/docs/BATCH_9.md b/docs/BATCH_9.md
@@ -1,6 +1,6 @@
 # Batch 9 — Usability review and final product fixes
 
-27 October 2026. **Status: local review candidate ready; real participant responses pending. Batch 9 is not yet fully complete.** The user confirmed they can provide unfamiliar-participant responses. No actual participant answers have been received or inferred.
+27 October 2026. **Status: reported feedback repaired locally; unfamiliar-participant verification remains open.** One written review response and the original explanation were received on 27 October. First-time status and task assistance were not specified. [The results](BATCH_9_RESULTS.md) distinguish reported observations from builder checks and remaining participation gaps.
 
 ## Verified builder findings and repairs
 
@@ -32,7 +32,7 @@ The current local review server runs at http://127.0.0.1:8769 on this computer. 
 
 Use [the task and response sheet](BATCH_9_PARTICIPANT_TASKS.md). Let an unfamiliar participant try catching up, finding a source, distinguishing interpretation, following a player, comparing modes, recovering from a future interval and using the glossary. Record their actual actions/answers and whether they needed help; do not coach before the attempt.
 
-[Participant results](BATCH_9_RESULTS.md) remain explicitly pending. Once responses arrive, record the observations, prioritise material comprehension/source-finding/recovery issues, repair and recheck them, and update this report before marking Batch 9 complete.
+[Reported results and repairs](BATCH_9_RESULTS.md) are now recorded. The main repairs are a direct substitution takeaway, explained past-minute denominators, more distinct Quick/Tactical outputs, one-click future-interval recovery and clearer recap/update actions. Technical metadata remains available in collapsed disclosures. A follow-up unfamiliar-user response is still needed to establish source-finding and unaided comprehension; do not mark those tasks as passed from automated checks.
 
 ## Remaining limits
 
